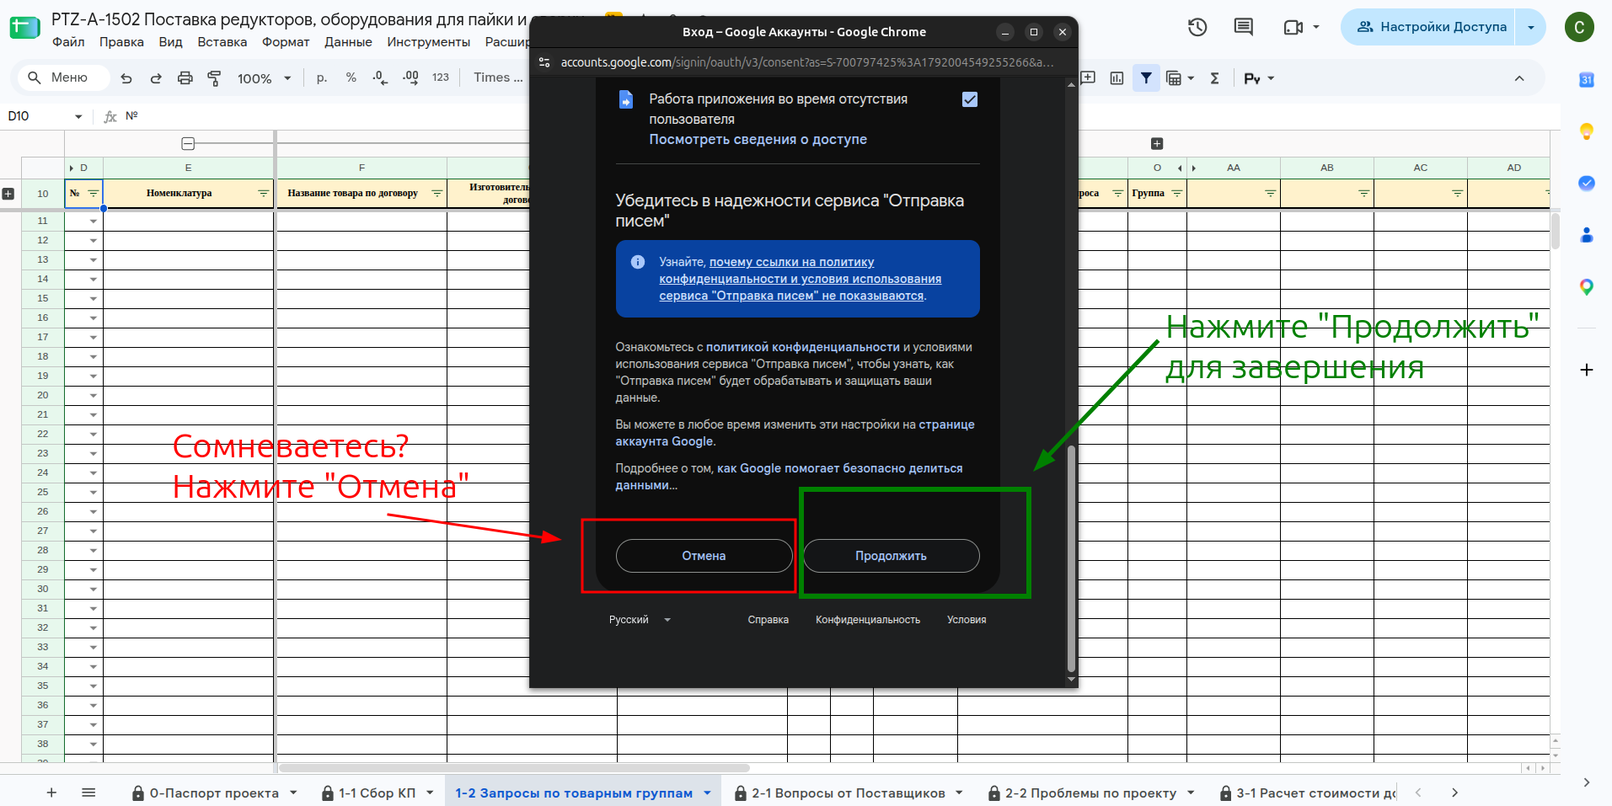
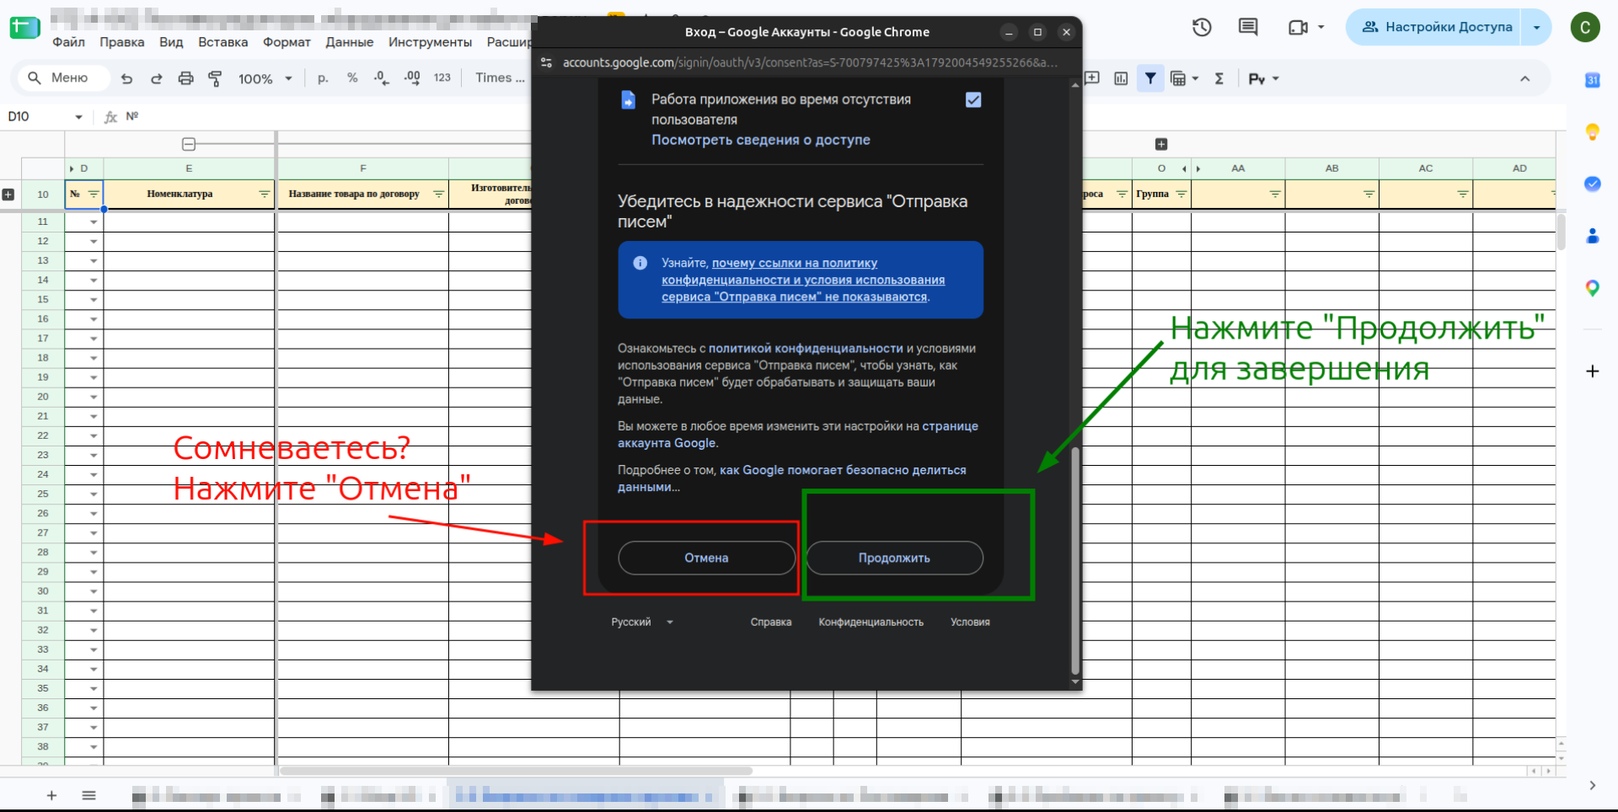
docs(inst): screenshots as one block after the steps; authorization and notices marked checked; other triggers in the check; data-transfer item clarified

diff --git a/inst/src/md-kod/tio/skr-avtorizatsiya/index.md b/inst/src/md-kod/tio/skr-avtorizatsiya/index.md
@@ -2,7 +2,7 @@
 title: "Инструкция. Авторизация скриптов"
 kratko: "авторизация скриптов"
 polno: "Как разрешить скриптам таблицы работать от вашего аккаунта: безопасный пункт меню и окна Google по шагам."
-status: проверить
+status: готово
 nuzhno:
   - zna.skr-plashka
 ---
@@ -60,19 +60,11 @@ nuzhno:
     1. `Email рассылка` → `Триггеры` → `1. Авторизация скриптов`;
     1. `Email рассылка` → `1. Авторизация скриптов`.
 
-![Доп.Меню → Авторизация скриптов](imgs/01-menyu-dop.png)
-
-![Email рассылка → Триггеры → 1. Авторизация скриптов](imgs/02-menyu-email-triggery.png)
-
-![Email рассылка → 1. Авторизация скриптов](imgs/03-menyu-email.png)
-
 ##### [Шаг 2. Подтвердите запрос]{#shag-2-ok}
 
 1. Если авторизация нужна, появится окно **«Требуется авторизация»**. Нажмите **«ОК»**.
     1. Окна нет — значит, авторизация в этой таблице уже была. Больше ничего делать не нужно.
 1. Если Google попросит выбрать аккаунт — выберите тот, под которым работаете.
-
-![Окно «Требуется авторизация»: нажмите «ОК»](imgs/05-ok.png)
 
 ##### [Шаг 3. Проверьте, чей это скрипт]{#shag-3-proverka}
 
@@ -81,23 +73,11 @@ nuzhno:
     1. **ВНИМАНИЕ** если почта вам незнакома или вы не уверены — нажмите **«Не предоставлять доступ»** и обратитесь к руководителю.
 1. Чтобы продолжить, нажмите **«Дополнительные настройки»**.
 
-![Окно «Эксперты Google не проверяли это приложение»](imgs/06-ne-proveryali.png)
-
-**Текст на фото:**
-
-* Тут почта владельца таблицы. Если она вам незнакома — не предоставляйте доступ.
-* Если не уверены — «Не предоставлять доступ».
-* Чтобы продолжить — «Дополнительные настройки».
-
 ##### [Шаг 4. Перейдите к скрипту]{#shag-4-pereyti}
 
 1. Ниже появится текст «Продолжайте только в том случае, если вы осознаёте все риски и доверяете разработчику».
 1. Ещё раз проверьте почту разработчика и название скрипта. Для таблиц проектов скрипт называется **«Отправка писем»**.
 1. Нажмите **«Перейти на страницу "Отправка писем" (небезопасно)»**.
-
-![Почта разработчика и название скрипта](imgs/07-proverit-pochtu.png)
-
-![Ссылка «Перейти на страницу "Отправка писем" (небезопасно)»](imgs/08-pereyti.png)
 
 ##### [Шаг 5. Проверьте свой аккаунт]{#shag-5-akkaunt}
 
@@ -105,15 +85,11 @@ nuzhno:
 1. Проверьте, что вверху и в строке «Адрес электронной почты» стоит **ваш** аккаунт.
 1. Нажмите **«Продолжить»**.
 
-![Окно «Вход в сервис "Отправка писем"»](imgs/09-vkhod-v-servis.png)
-
 ##### [Шаг 6. Выдайте все права]{#shag-6-prava}
 
 1. В разделе «Выберите, какие права доступа вы хотите предоставить приложению "Отправка писем"» отметьте **«Выбрать все»**.
     1. **ОБЯЗАТЕЛЬНО** отметьте все права. Без части прав скрипты будут работать с ошибками.
 1. Прокрутите окно вниз.
-
-![«Выбрать все» в списке прав](imgs/10-vybrat-vse.png)
 
 ##### [Шаг 7. Завершите]{#shag-7-zavershit}
 
@@ -121,7 +97,33 @@ nuzhno:
     1. Сомневаетесь — нажмите **«Отмена»**: доступ не будет выдан.
 1. **ВНИМАНИЕ** после «Продолжить» несколько секунд ничего не нажимайте: пункт меню выполняется, хотя плашки «Выполняется скрипт» может не быть.
 
-![Кнопки «Отмена» и «Продолжить» внизу окна](imgs/11-prodolzhit.png)
+###### **Внешний вид / Фото**
+
+![Шаг 1. Доп.Меню → Авторизация скриптов](imgs/01-menyu-dop.png)
+
+![Шаг 1. Email рассылка → Триггеры → 1. Авторизация скриптов](imgs/02-menyu-email-triggery.png)
+
+![Шаг 1. Email рассылка → 1. Авторизация скриптов](imgs/03-menyu-email.png)
+
+![Шаг 2. Окно «Требуется авторизация»: нажмите «ОК»](imgs/05-ok.png)
+
+![Шаг 3. Окно «Эксперты Google не проверяли это приложение»](imgs/06-ne-proveryali.png)
+
+![Шаг 4. Почта разработчика и название скрипта](imgs/07-proverit-pochtu.png)
+
+![Шаг 4. Ссылка «Перейти на страницу "Отправка писем" (небезопасно)»](imgs/08-pereyti.png)
+
+![Шаг 5. Окно «Вход в сервис "Отправка писем"»](imgs/09-vkhod-v-servis.png)
+
+![Шаг 6. «Выбрать все» в списке прав](imgs/10-vybrat-vse.png)
+
+![Шаг 7. Кнопки «Отмена» и «Продолжить» внизу окна](imgs/11-prodolzhit.png)
+
+**Текст на фото:**
+
+* Тут почта владельца таблицы. Если она вам незнакома — не предоставляйте доступ.
+* Если не уверены — «Не предоставлять доступ».
+* Чтобы продолжить — «Дополнительные настройки».
 
 ## Как отозвать доступ
 
@@ -135,10 +137,3 @@ nuzhno:
 ## На что инструкция не отвечает
 
 - Как отличить в списке доступа «Отправку писем» одной таблицы от другой.
-
-## Осталось сделать
-
-Собрано 2026-10-14 по объяснению и снимкам директора.
-
-- Пройти по новой копии таблицы.
-- В папке `imgs/` лежит неиспользованный снимок `04-trebuetsya.png` — то же окно «Требуется авторизация», что и `05-ok.png`.

diff --git a/inst/src/md-kod/tio/skr-zapusk-triggerov/index.md b/inst/src/md-kod/tio/skr-zapusk-triggerov/index.md
@@ -68,14 +68,6 @@ nuzhno:
 1. **ВНИМАНИЕ** второй раз пункт не нажимайте.
 1. Пункт `Email рассылка` → `Удалить лишние строки` тоже включает триггеры. Если вы его уже выполняли — проверьте список, прежде чем запускать триггеры ещё раз.
 
-![Сначала авторизация, потом «2. Запустить триггеры»; «Удалить лишние строки» тоже включает триггеры](imgs/01-menyu-triggery.png)
-
-**Текст на фото:**
-
-* Перед запуском триггеров авторизуйтесь.
-* Запустить триггеры: Email рассылка → Триггеры → 2. Запустить триггеры.
-* Удаление лишних строк тоже активирует триггеры.
-
 ##### [Шаг 3. Посмотрите отчёт]{#shag-3-otchet}
 
 1. Нажмите `Email рассылка` → `Триггеры` → `3. Список запущеных триггеров`.
@@ -84,14 +76,6 @@ nuzhno:
     1. **«Текущий пользователь»** и **«Владелец таблицы»** — кто вы и кто владелец;
     1. **«Список Триггеров текущего пользователя»** и **«других пользователей»** — сколько триггеров и какие функции. Должно быть 5 разных функций у владельца таблицы.
 1. Если триггеров больше пяти или функции повторяются — переходите к шагу 4.
-
-![Email рассылка → Триггеры → 3. Список запущеных триггеров](imgs/02-menyu-spisok.png)
-
-![Отчёт: здесь 9 триггеров с повторами — ошибка](imgs/03-otchet-spisok.png)
-
-**Текст на фото:**
-
-* Содержимое отчёта зависит от результатов проверки: наличия дубликатов, правильного общего количества триггеров и их владельца.
 
 ##### [Шаг 4. Проверьте в консоли Apps Script]{#shag-4-konsol}
 
@@ -105,6 +89,21 @@ nuzhno:
     1. проверьте: «Показано триггеров: 5».
 1. **Вы не владелец** (в столбце «Владелец» — «Другой пользователь»): удалить чужие триггеры нельзя. Напишите администратору — он исправит через код.
 
+###### **Внешний вид / Фото**
+
+![Шаг 2. Сначала авторизация, потом «2. Запустить триггеры»; «Удалить лишние строки» тоже включает триггеры](imgs/01-menyu-triggery.png)
+
+![Шаг 3. Email рассылка → Триггеры → 3. Список запущеных триггеров](imgs/02-menyu-spisok.png)
+
+![Шаг 3. Отчёт: здесь 9 триггеров с повторами — ошибка](imgs/03-otchet-spisok.png)
+
+**Текст на фото:**
+
+* Перед запуском триггеров авторизуйтесь.
+* Запустить триггеры: Email рассылка → Триггеры → 2. Запустить триггеры.
+* Удаление лишних строк тоже активирует триггеры.
+* Содержимое отчёта зависит от результатов проверки: наличия дубликатов, правильного общего количества триггеров и их владельца.
+
 ## Триггеры таблицы оплат
 
 При создании таблицы оплат (`Доп.Меню` → `6 Оплаты` → `Создать таблицу оплаты`) создаются ещё 2 триггера — для неё. Если таблица оплат уже создана, а её триггеры не работают, их запускают отдельно: `Доп.Меню` → `6 Оплаты` → `Запустить тригеры`.
@@ -113,7 +112,7 @@ nuzhno:
 
 ## Пункт «Прередать данные»
 
-Пункт в подменю `Email рассылка` → `Триггеры` к триггерам не относится. Он собирает сводку части данных таблицы в файл (формат JSON); по этим данным заполняются другие таблицы. Для запуска триггеров он не нужен.
+Пункт в подменю `Email рассылка` → `Триггеры` сам триггеры не запускает. Это часть работы одного из триггеров: сводка части данных таблицы собирается в файл (формат JSON), и по ней заполняются другие таблицы. Триггер делает это сам, автоматически; пункт меню просто запускает передачу сразу, чтобы не ждать. Для запуска триггеров он не нужен.
 
 ## Что стоит за триггерами
 
@@ -139,8 +138,4 @@ nuzhno:
 
 ## Осталось сделать
 
-Собрано 2026-10-14 по объяснению и снимкам директора.
-
-- Пройти по новой копии таблицы.
-- Пункт «Прередать данные» стоит не на месте или его надо переименовать — записано в `inst/PLAN.md`, раздел «Решить».
 - Отчёт «3. Список запущеных триггеров» сейчас выдаёт сплошной текст. У директора есть набросок понятного отчёта — записан в `inst/PLAN.md`, раздел «Решить». Это доработка скрипта.

diff --git a/inst/src/md-kod/um/skr-proverit-triggery/index.md b/inst/src/md-kod/um/skr-proverit-triggery/index.md
@@ -13,7 +13,7 @@ nuzhno: []
 1. В таблице откройте меню `Расширения` → `Apps Script`.
 1. В открывшейся консоли нажмите слева значок с будильником — **«Триггеры»**.
 1. Проверьте список:
-    1. **Количество** — вверху справа «Показано триггеров». Должно быть **ровно 5**.
+    1. **Количество** — вверху справа «Показано триггеров». Постоянных триггеров таблицы проекта **ровно 5**.
     1. **Повторы** — в столбце «Функция» каждая из пяти функций встречается один раз:
         1. `triggerMrProjLib`
         1. `onEdit_trigger`
@@ -22,6 +22,9 @@ nuzhno: []
         1. `MrLib_top.triggerService`
     1. **Владелец** — у владельца таблицы в столбце «Владелец» стоит «Я». Если вы не владелец, увидите «Другой пользователь» — это нормально.
     1. **Ошибки** — в столбце «Частота появления ошибок» процент ошибок: чем меньше, тем лучше.
+1. Кроме пяти постоянных, в списке могут быть и другие триггеры — их не удаляйте, но тоже проверьте, что они не повторяются:
+    1. **триггеры оплат** — 2 штуки, если создана таблица оплат;
+    1. **триггер рассылки** — появляется на время отправки писем пунктом «Отправка писем триггером».
 1. Если триггеров больше пяти или функции повторяются — триггеры создали дважды. Владелец таблицы удаляет лишние в этой же консоли; если вы не владелец — напишите администратору.
 
 ![Расширения → Apps Script](imgs/01-apps-script.png)

diff --git a/inst/src/standarty/pravila/index.md b/inst/src/standarty/pravila/index.md
@@ -55,6 +55,8 @@ nuzhno: []
 
 ## Снимки
 
+- **Снимки держим одним блоком** «Внешний вид / Фото» после всех шагов, а не между ними (решение директора): блок удобно свернуть, и в документе меньше листать. В подписи снимка — номер шага: «Шаг 3. …».
+
 - Лежат в `imgs/` внутри папки части. Имя — дата и время (`2026-07-28_14-23.png`) или короткое описание.
 - После снимков — блок «Текст на фото»: маркированный список коротких команд.
 - На снимке видна область действия (рамка, стрелка). Без паролей и личных данных клиентов.

diff --git a/inst/src/md-kod/zna/skr-plashka/index.md b/inst/src/md-kod/zna/skr-plashka/index.md
@@ -2,7 +2,7 @@
 title: "Знание. Плашки скриптов"
 kratko: "плашка «Выполняется скрипт»"
 polno: "Три плашки вверху таблицы: скрипт выполняется, скрипт выполнен, ошибка. Пока скрипт выполняется, тот же пункт меню повторно не нажимают."
-status: проверить
+status: готово
 nuzhno:
   - tio.skr-avtorizatsiya
 ---
